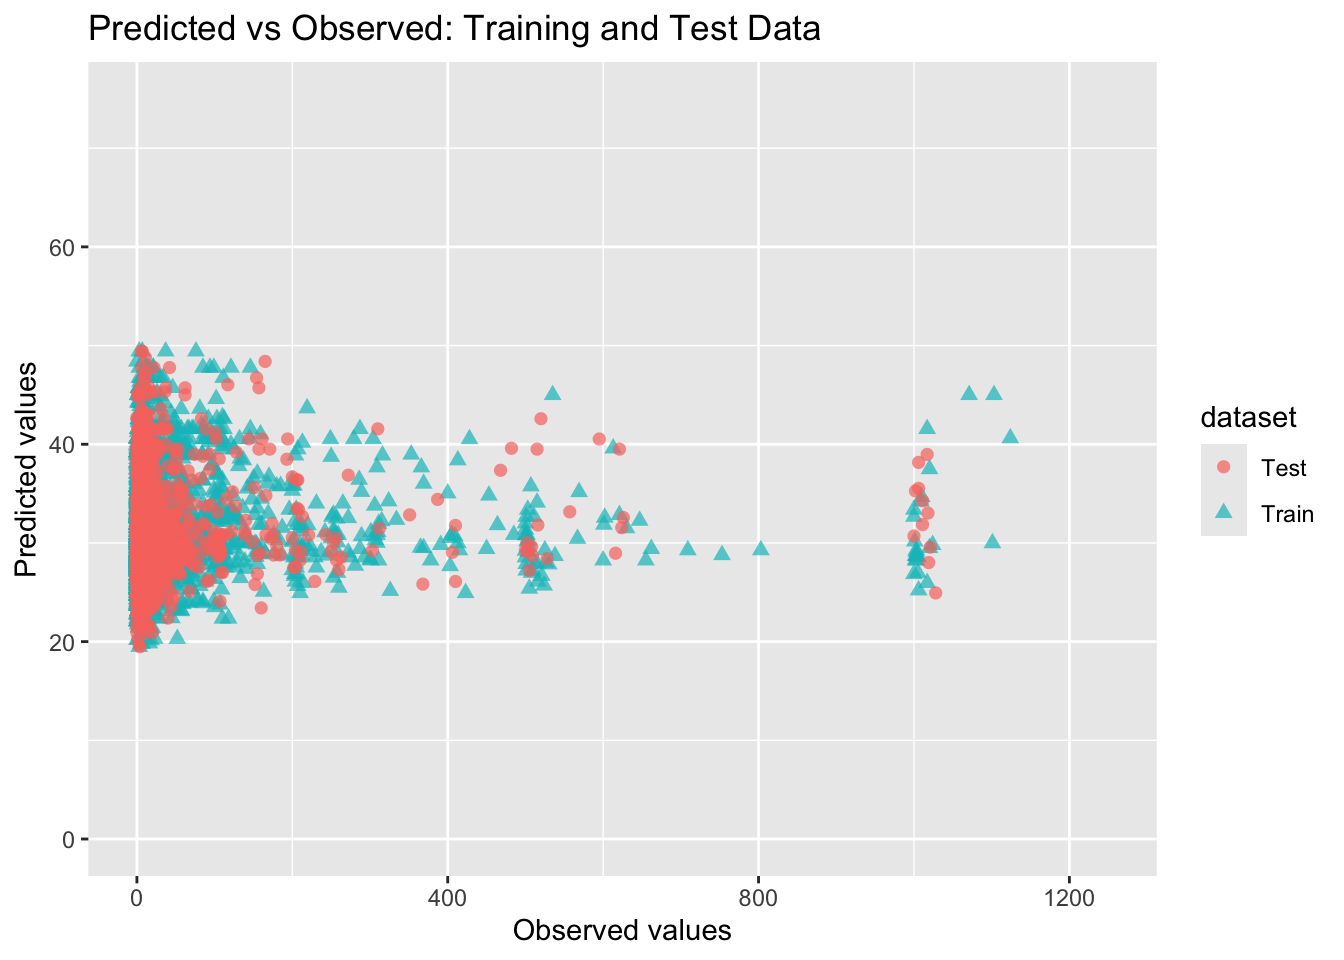
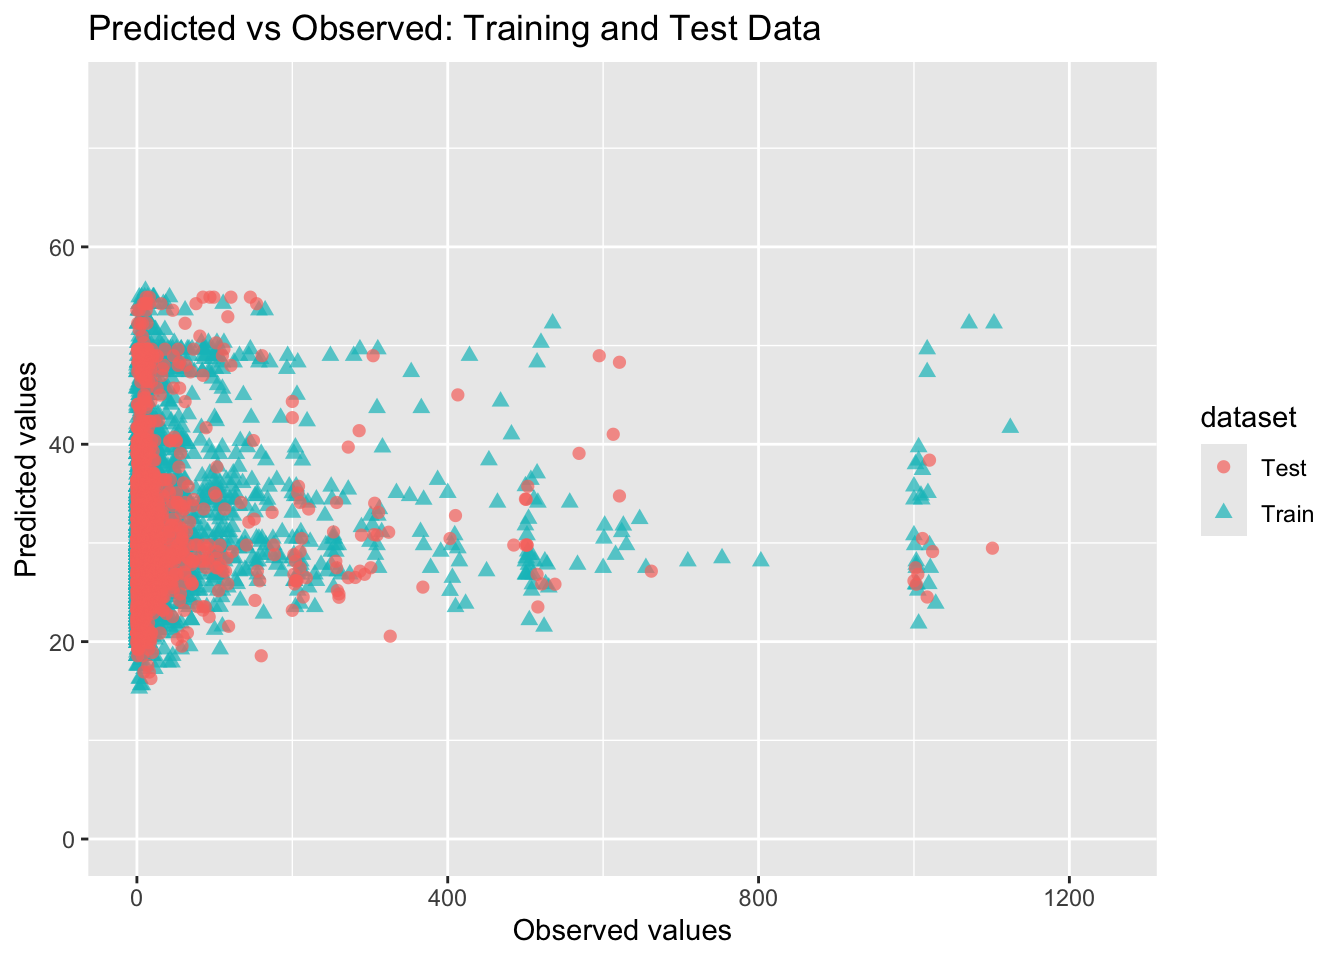
commiting again, but still not ssure it will hepl

diff --git a/docs/aboutme.html b/docs/aboutme.html
@@ -119,6 +119,18 @@ ul.task-list li input[type="checkbox"] {
     <a class="dropdown-item" href="./presentation-exercise/presentation-exercise.html">
  <span class="dropdown-text">Presentation Exercise</span></a>
   </li>  
+        <li>
+    <a class="dropdown-item" href="./fitting-exercise/fitting-exercise.html">
+ <span class="dropdown-text">Fitting Exercise</span></a>
+  </li>  
+        <li>
+    <a class="dropdown-item" href="./ml-models-exercise/ml-models-exercise.html">
+ <span class="dropdown-text">Machine Learning</span></a>
+  </li>  
+        <li>
+    <a class="dropdown-item" href="./tidytuesday-exercise/tidytuesday-exercise.html">
+ <span class="dropdown-text">Tidy Tuesday Exercise</span></a>
+  </li>  
     </ul>
   </li>
 </ul>

diff --git a/docs/index.html b/docs/index.html
@@ -123,6 +123,14 @@ ul.task-list li input[type="checkbox"] {
     <a class="dropdown-item" href="./fitting-exercise/fitting-exercise.html">
  <span class="dropdown-text">Fitting Exercise</span></a>
   </li>  
+        <li>
+    <a class="dropdown-item" href="./ml-models-exercise/ml-models-exercise.html">
+ <span class="dropdown-text">Machine Learning</span></a>
+  </li>  
+        <li>
+    <a class="dropdown-item" href="./tidytuesday-exercise/tidytuesday-exercise.html">
+ <span class="dropdown-text">Tidy Tuesday Exercise</span></a>
+  </li>  
     </ul>
   </li>
 </ul>
